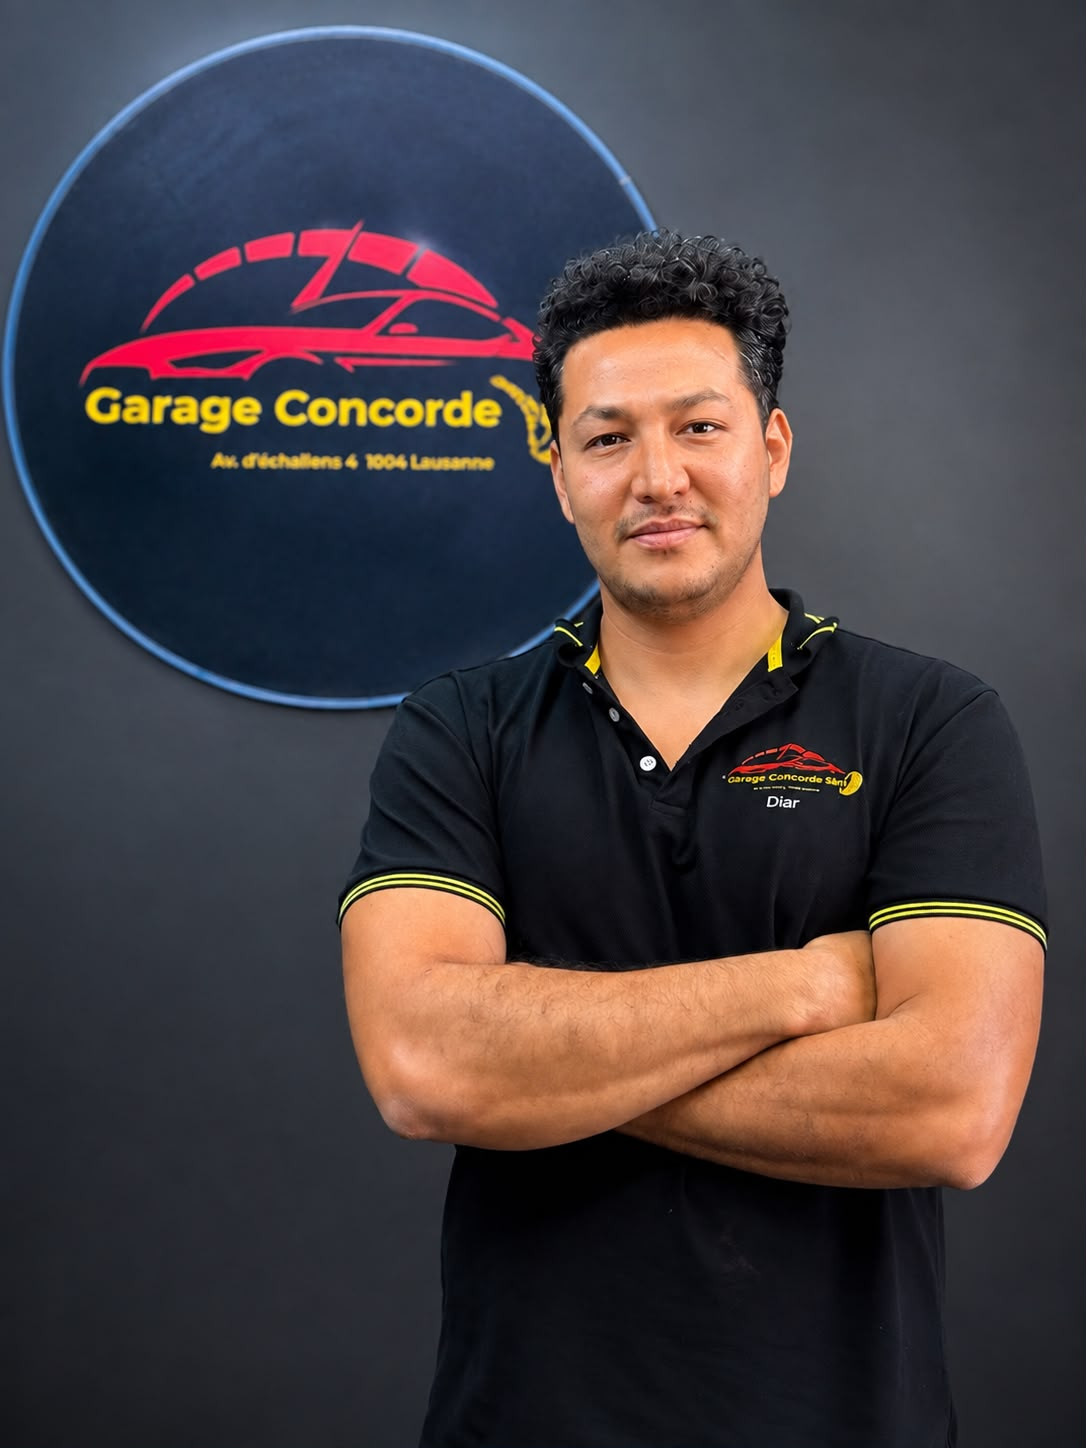
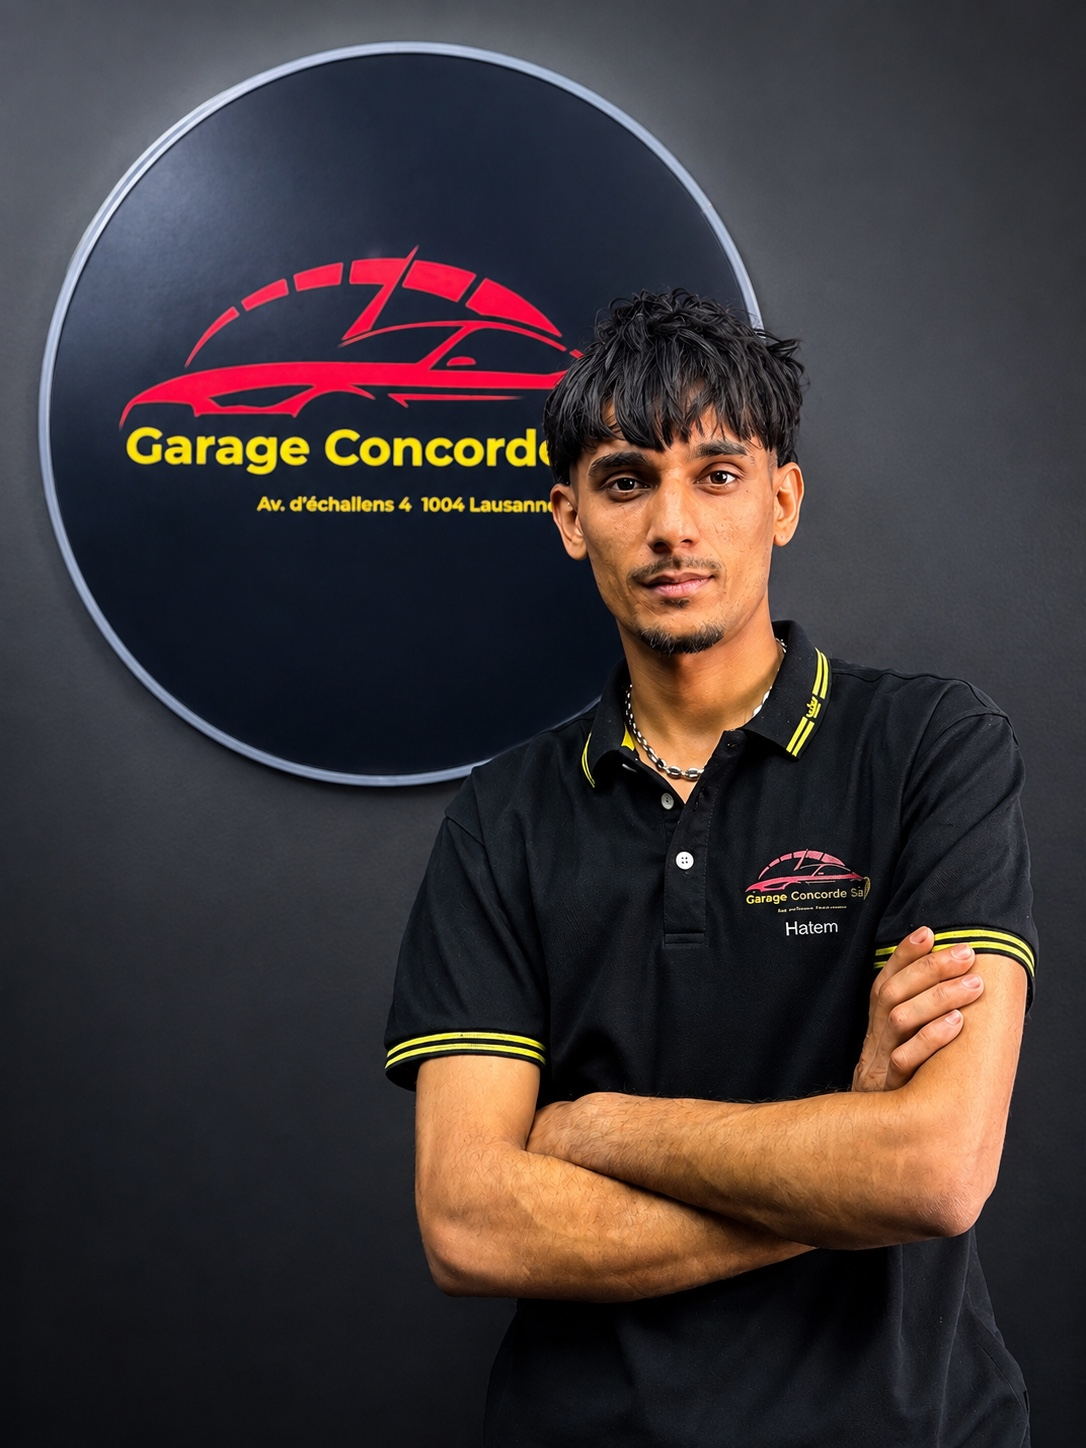
Add files via upload

diff --git a/styles.css b/styles.css
@@ -1,136 +1,21 @@
 
-:root{
-  --red:#e31e24;
-  --yellow:#ffc514;
-  --black:#111214;
-  --white:#ffffff;
-  --soft:#f6f6f7;
-  --text:#17181b;
-  --muted:#64666e;
-  --line:#dddddf;
+*{box-sizing:border-box}html,body{margin:0;font-family:Arial,Helvetica,sans-serif;color:#181818;background:#fff}
+.site-header{height:82px;display:flex;align-items:center;justify-content:space-between;padding:0 max(5vw,22px);background:#111;border-bottom:5px solid #d71936;position:relative;z-index:10}
+.brand{display:flex;align-items:center;gap:10px;text-decoration:none;color:#fff;font-weight:800;font-size:14px}.brand img{width:46px;height:46px;object-fit:contain;border-radius:8px}.brand span{white-space:nowrap}
+nav{display:flex;gap:8px}nav a{color:#fff;text-decoration:none;font-weight:800;padding:12px 15px;border-radius:9px;transition:.2s}nav a:hover,nav a.active{background:#d71936}
+.home{min-height:calc(100vh - 142px);overflow:hidden}.hero{min-height:calc(100vh - 142px);position:relative;display:grid;grid-template-columns:minmax(0,1.4fr) minmax(240px,.6fr);gap:45px;align-items:center;padding:48px max(6vw,25px);background:linear-gradient(125deg,#fff 0%,#fff 60%,#fff8e5 100%)}
+.hero-copy{position:relative;z-index:2;max-width:850px}.kicker{font-size:13px;letter-spacing:2px;color:#a66b00;font-weight:900;margin-bottom:10px}.hero h1{font-size:clamp(42px,6.2vw,88px);line-height:.9;margin:0 0 22px;font-weight:950;letter-spacing:-3px}.hero h1 span{display:block;color:#d71936}.hero p{font-size:clamp(16px,1.4vw,20px);line-height:1.55;max-width:760px}
+.features{display:grid;grid-template-columns:repeat(2,minmax(160px,1fr));gap:10px;margin:25px 0}.features b{padding:13px 15px;background:#fff;border:1px solid #eee;border-radius:10px;box-shadow:0 6px 18px #0000000c}
+.actions{display:flex;gap:12px;flex-wrap:wrap;margin-top:25px}.big{font-size:17px;font-weight:900;padding:17px 22px;border-radius:10px;text-decoration:none;box-shadow:0 8px 22px #0002;transition:.2s}.big:hover{transform:translateY(-2px)}.red{background:#d71936;color:#fff}.dark{background:#171717;color:#fff}.gold{background:#f5c400;color:#171717}
+.promo{position:relative;z-index:2;display:flex;justify-content:center}.promo img{width:min(100%,390px);max-height:390px;object-fit:contain;border-radius:20px;box-shadow:0 18px 45px #0002;background:#fff}
+.decor{position:absolute;inset:0;overflow:hidden;pointer-events:none;opacity:.09}.gear{position:absolute;font-size:130px;animation:spin 22s linear infinite}.gear-a{right:37%;top:7%}.gear-b{left:2%;bottom:0;font-size:90px;animation-direction:reverse}.wheel{position:absolute;width:115px;height:115px;border:15px solid #111;border-radius:50%;box-shadow:inset 0 0 0 5px #d71936;animation:spin 14s linear infinite}.wheel:after{content:"";position:absolute;inset:28px;border:7px dashed #111;border-radius:50%}.wheel-a{right:5%;bottom:4%}.wheel-b{right:30%;bottom:-40px;width:85px;height:85px}.wrench{position:absolute;right:45%;bottom:15%;font-size:75px;animation:sway 5s ease-in-out infinite}
+@keyframes spin{to{transform:rotate(360deg)}}@keyframes sway{0%,100%{transform:rotate(-12deg)}50%{transform:rotate(12deg)}}
+footer{min-height:60px;background:#171717;color:#fff;display:flex;align-items:center;justify-content:space-around;gap:20px;padding:16px 5vw;font-size:13px}
+.page{padding:50px max(6vw,25px);min-height:calc(100vh - 142px)}.page h1{font-size:48px;margin:5px 0}.page h2{margin-top:48px;font-size:28px}.gallery{display:grid;gap:20px}.gallery.workshop{grid-template-columns:repeat(3,1fr)}.gallery.team{grid-template-columns:repeat(4,1fr)}.gallery img{width:100%;height:310px;object-fit:cover;border-radius:18px;box-shadow:0 10px 30px #0002}.gallery.team img{height:380px;object-position:center top}
+@media(max-width:800px){
+ .site-header{height:auto;min-height:76px;padding:10px 14px;align-items:flex-start}.brand span{font-size:11px}.brand img{width:38px;height:38px}nav{gap:2px;flex-wrap:wrap;justify-content:flex-end}nav a{font-size:12px;padding:8px 7px}
+ .hero{grid-template-columns:1fr;gap:24px;padding:34px 20px;min-height:auto}.hero h1{font-size:49px;letter-spacing:-2px}.hero p{font-size:16px}.features{grid-template-columns:1fr 1fr}.features b{font-size:13px;padding:10px}.promo img{max-height:210px}.actions{display:grid;grid-template-columns:1fr}.big{text-align:center;font-size:16px;padding:16px}.decor{opacity:.055}
+ footer{flex-direction:column;text-align:center}.gallery.workshop,.gallery.team{grid-template-columns:1fr 1fr}.gallery img,.gallery.team img{height:270px}
 }
-*{box-sizing:border-box}
-html,body{margin:0;padding:0}
-body{font-family:Arial,Helvetica,sans-serif;background:var(--white);color:var(--text);line-height:1.45}
-a{text-decoration:none;color:inherit}
-img{display:block;max-width:100%}
-.container{width:min(1180px,92%);margin:auto}
-
-.topbar{background:var(--black);color:#fff;font-size:14px}
-.topbar .container{display:flex;justify-content:space-between;gap:20px;flex-wrap:wrap;padding:8px 0}
-header{background:#fff;border-bottom:1px solid var(--line);position:sticky;top:0;z-index:50}
-.nav{display:flex;align-items:center;justify-content:space-between;gap:24px;padding:10px 0}
-.brand{display:flex;align-items:center;gap:12px}
-.brand img{width:92px;height:58px;object-fit:contain;background:#111;border-radius:10px}
-.brand strong{font-size:22px}
-.brand span{display:block;color:var(--red);font-size:13px;font-weight:800}
-.navlinks{display:flex;gap:22px;align-items:center;flex-wrap:wrap}
-.navlinks a{font-size:14px;font-weight:900}
-.navlinks a:hover,.navlinks a.active{color:var(--red)}
-
-.home{
-  position:relative;
-  min-height:calc(100vh - 112px);
-  overflow:hidden;
-  background:
-    radial-gradient(circle at 86% 12%, rgba(255,197,20,.35) 0 11%, transparent 28%),
-    linear-gradient(145deg,#fff 0%,#fff 62%,#fff8db 100%);
-}
-.home:before{
-  content:"";
-  position:absolute;
-  right:-7%;
-  top:20%;
-  width:42%;
-  height:42%;
-  background:linear-gradient(145deg,transparent 0 25%,rgba(255,197,20,.85) 26% 48%,rgba(227,30,36,.85) 49% 62%,transparent 63%);
-  transform:rotate(-6deg);
-  border-radius:40% 0 0 50%;
-  opacity:.8;
-}
-.home-grid{position:relative;z-index:2;display:grid;grid-template-columns:1.2fr .75fr;gap:54px;align-items:center;padding:44px 0 138px}
-.eyebrow{font-size:14px;font-weight:900;text-transform:uppercase;letter-spacing:1.2px;color:#3e4148}
-.eyebrow b{color:var(--red)}
-h1{font-size:clamp(54px,7vw,88px);line-height:.92;margin:14px 0 22px;text-transform:uppercase;letter-spacing:-1.5px}
-h1 span{color:var(--red)}
-h2{font-size:36px;margin:8px 0 18px}
-.lead{font-size:18px;color:#3f4249;max-width:690px}
-.features{display:grid;grid-template-columns:repeat(2,minmax(0,1fr));gap:11px;margin:24px 0}
-.feature{font-weight:900;padding:10px 0}
-.feature:before{content:"✓";color:var(--red);margin-right:10px}
-.actions{display:flex;gap:12px;flex-wrap:wrap;margin-top:22px}
-.btn{display:inline-block;border-radius:8px;padding:13px 18px;font-weight:900;border:1px solid transparent}
-.btn-red{background:var(--red);color:#fff}
-.btn-yellow{background:var(--yellow);color:#111}
-.btn-outline{background:#fff;border-color:#999}
-.ad{position:relative;background:#fff;border:1px solid var(--line);border-radius:18px;padding:10px;box-shadow:0 14px 40px rgba(0,0,0,.1)}
-.ad img{width:100%;height:340px;object-fit:contain;border-radius:13px}
-.ad-label{position:absolute;top:-12px;left:16px;background:var(--black);color:#fff;border-radius:20px;padding:6px 12px;font-size:12px;font-weight:900}
-
-.road{
-  position:absolute;left:0;right:0;bottom:0;height:118px;
-  background:linear-gradient(to bottom,#f9f9fa 0 54%,#101113 55% 100%);
-  z-index:3;border-top:1px solid #ececef
-}
-.road:after{content:"";position:absolute;left:0;right:0;top:72px;height:3px;background:repeating-linear-gradient(90deg,#fff 0 46px,transparent 46px 92px);opacity:.8}
-.car-lane{position:absolute;left:0;right:0;top:8px;height:64px;overflow:hidden}
-.car{position:absolute;width:130px;height:54px;animation:drive 17s linear infinite}
-.car:nth-child(2){animation-duration:21s;animation-delay:-7s}
-.car:nth-child(3){animation-duration:25s;animation-delay:-13s}
-.car:nth-child(4){animation-duration:19s;animation-delay:-4s}
-.car:nth-child(5){animation-duration:23s;animation-delay:-11s}
-@keyframes drive{from{transform:translateX(-180px)}to{transform:translateX(calc(100vw + 180px))}}
-.car .body{position:absolute;left:10px;right:6px;bottom:9px;height:24px;border-radius:15px 20px 8px 8px;background:var(--red);box-shadow:0 4px 12px rgba(0,0,0,.2)}
-.car:nth-child(2) .body,.car:nth-child(5) .body{background:#111}
-.car:nth-child(3) .body{background:var(--yellow)}
-.car:nth-child(4) .body{background:#d9d9dc}
-.car .roof{position:absolute;left:37px;bottom:29px;width:59px;height:22px;border-radius:28px 30px 0 0;background:inherit;clip-path:polygon(15% 100%,30% 10%,72% 10%,95% 100%)}
-.car .wheel{position:absolute;bottom:1px;width:18px;height:18px;border-radius:50%;background:#111;border:4px solid #444}
-.car .w1{left:25px}.car .w2{right:18px}
-
-.section{padding:62px 0}
-.section.soft{background:var(--soft)}
-.section-head{display:flex;justify-content:space-between;align-items:end;gap:30px;margin-bottom:25px}
-.section-head p{max-width:520px;color:var(--muted)}
-.gallery-block{margin-top:26px}
-.gallery-title{margin-bottom:16px}
-.gallery{display:grid;grid-template-columns:repeat(3,1fr);gap:16px}
-.gallery img{width:100%;height:300px;object-fit:cover;border-radius:14px;border:1px solid var(--line);background:#fff}
-.gallery .wide{grid-column:span 3;height:420px}
-.divider{height:1px;background:var(--line);margin:48px 0}
-
-.form{max-width:860px;background:#fff;border:1px solid var(--line);border-radius:16px;padding:26px;box-shadow:0 8px 26px rgba(0,0,0,.05)}
-.form-grid{display:grid;grid-template-columns:1fr 1fr;gap:16px}
-label{font-size:14px;font-weight:900}
-input,textarea{width:100%;margin-top:6px;padding:13px 14px;border:1px solid #c9cbd0;border-radius:9px;background:#fff;font:inherit}
-textarea{min-height:150px;resize:vertical}
-.full{grid-column:1/-1}
-.notice{background:#fff8d9;border:1px solid #ead36f;color:#594909;border-radius:10px;padding:14px;margin:18px 0}
-.rdv{display:grid;grid-template-columns:1.2fr .8fr;gap:20px}
-.box{background:#fff;border:1px solid var(--line);border-radius:16px;padding:28px;box-shadow:0 8px 24px rgba(0,0,0,.04)}
-.small-wa{display:inline-block;border:1px solid #8bc79c;color:#237238;background:#f2fff5;border-radius:8px;padding:9px 12px;font-size:13px}
-
-.footer{background:var(--black);color:#fff;padding:28px 0}
-.footer-grid{display:grid;grid-template-columns:1.5fr 1fr 1fr;gap:26px}
-.footer p{color:#c8c8cd;margin:4px 0}
-.note{font-size:13px;color:#7b7e86}
-
-@media(max-width:900px){
-  .home{min-height:auto}
-  .home-grid,.rdv{grid-template-columns:1fr}
-  .home-grid{padding-bottom:150px}
-  .ad img{height:270px}
-  .gallery{grid-template-columns:1fr 1fr}
-  .gallery .wide{grid-column:span 2}
-}
-@media(max-width:620px){
-  .nav{display:block}
-  .brand{margin-bottom:10px}
-  .navlinks{gap:12px}
-  .home-grid{padding-top:28px}
-  .features,.form-grid,.gallery{grid-template-columns:1fr}
-  .gallery .wide{grid-column:span 1;height:260px}
-  .road{height:102px}
-  .car{width:110px;transform:scale(.9)}
-  h2{font-size:29px}
-}
+@media(max-width:480px){.brand span{display:none}.hero h1{font-size:43px}.gallery.workshop,.gallery.team{grid-template-columns:1fr}.gallery img,.gallery.team img{height:auto}}
+@media(prefers-reduced-motion:reduce){.gear,.wheel,.wrench{animation:none}}

diff --git a/index.html b/index.html
@@ -1,47 +1,27 @@
-<!doctype html><html lang="fr"><head>
-<meta charset="utf-8"><meta name="viewport" content="width=device-width,initial-scale=1">
-<meta name="description" content="Garage Concorde Sàrl à Lausanne, garage toutes marques depuis plus de 20 ans. Entretien, réparation, carrosserie, préparation expertise et devis gratuit.">
-<title>Garage Concorde Sàrl | Lausanne</title><link rel="stylesheet" href="styles.css"></head><body>
-<div class="topbar"><div class="container"><div>📍 Av. d'Échallens 4, 1004 Lausanne</div><div><a href="tel:+41216247335">021 624 73 35</a> · <a href="mailto:info@garage-concorde.ch">info@garage-concorde.ch</a></div></div></div>
-<header><div class="container nav">
-<a class="brand" href="index.html"><img src="logo.jpeg" alt="Logo Garage Concorde"><div><strong>Garage Concorde Sàrl</strong><span>Lausanne</span></div></a>
-<nav class="navlinks"><a href="index.html">Accueil</a><a href="devis.html">Devis</a><a href="rendez-vous.html">Rendez-vous</a><a href="atelier.html">Atelier</a></nav>
-</div></header>
-
-<main>
-<section class="home"><div class="container home-grid">
-<div>
-<div class="eyebrow">Depuis plus de <b>20 ans</b> à Lausanne</div>
-<h1>Garage <span>Concorde</span></h1>
-<p class="lead">Garage toutes marques à Lausanne. Entretien, réparations mécaniques, carrosserie et préparation expertise, avec devis gratuit.</p>
-<div class="features">
-<div class="feature">Toutes marques</div>
-<div class="feature">Entretien</div>
-<div class="feature">Réparation</div>
-<div class="feature">Carrosserie</div>
-<div class="feature">Préparation expertise</div>
-<div class="feature">Devis gratuit</div>
-</div>
-<div class="actions">
-<a class="btn btn-red" href="devis.html">Demander un devis</a>
-<a class="btn btn-yellow" href="rendez-vous.html">Prendre rendez-vous</a>
-<a class="btn btn-outline" href="atelier.html">Voir l'atelier</a>
-</div>
-</div>
-<div><div class="ad"><span class="ad-label">PUBLICITÉ</span><img src="promo_pneus.jpeg" alt="Promotion pneus hiver"></div></div>
-</div>
-<div class="road"><div class="car-lane">
-<div class="car"><div class="body"></div><div class="roof"></div><div class="wheel w1"></div><div class="wheel w2"></div></div>
-<div class="car"><div class="body"></div><div class="roof"></div><div class="wheel w1"></div><div class="wheel w2"></div></div>
-<div class="car"><div class="body"></div><div class="roof"></div><div class="wheel w1"></div><div class="wheel w2"></div></div>
-<div class="car"><div class="body"></div><div class="roof"></div><div class="wheel w1"></div><div class="wheel w2"></div></div>
-<div class="car"><div class="body"></div><div class="roof"></div><div class="wheel w1"></div><div class="wheel w2"></div></div>
-</div></div>
-</section>
+<!doctype html>
+<html lang="fr"><head><meta charset="utf-8"><meta name="viewport" content="width=device-width,initial-scale=1">
+<title>Garage Concorde Sàrl | Lausanne</title><link rel="stylesheet" href="styles.css"></head>
+<body>
+<header class="site-header">
+  <a class="brand" href="index.html"><img src="logo.jpeg" alt="Garage Concorde"><span>Garage Concorde Sàrl</span></a>
+  <nav><a class="active" href="index.html">Accueil</a><a href="devis.html">Devis</a><a href="rendez-vous.html">Rendez-vous</a><a href="atelier.html">Atelier</a></nav>
+</header>
+<main class="home">
+  <section class="hero">
+    <div class="decor" aria-hidden="true">
+      <div class="gear gear-a">⚙</div><div class="gear gear-b">⚙</div>
+      <div class="wheel wheel-a"></div><div class="wheel wheel-b"></div>
+      <div class="wrench">🔧</div>
+    </div>
+    <div class="hero-copy">
+      <div class="kicker">DEPUIS PLUS DE 20 ANS À LAUSANNE</div>
+      <h1>GARAGE <span>CONCORDE</span></h1>
+      <p>Garage toutes marques à Lausanne. Entretien, réparation mécanique, carrosserie et préparation expertise, avec devis gratuit.</p>
+      <div class="features"><b>✓ Toutes marques</b><b>✓ Entretien</b><b>✓ Réparation</b><b>✓ Carrosserie</b><b>✓ Expertise</b><b>✓ Devis gratuit</b></div>
+      <div class="actions"><a class="big red" href="devis.html">Demander un devis</a><a class="big dark" href="rendez-vous.html">Prendre rendez-vous</a><a class="big gold" href="atelier.html">Voir l’atelier</a></div>
+    </div>
+    <aside class="promo"><img src="promo_pneus.jpeg" alt="Offre pneus"></aside>
+  </section>
 </main>
-
-<footer class="footer"><div class="container"><div class="footer-grid">
-<div><h3>Garage Concorde Sàrl</h3><p>Garage toutes marques à Lausanne depuis plus de 20 ans.</p></div>
-<div><h3>Contact</h3><p>021 624 73 35</p><p>info@garage-concorde.ch</p></div>
-<div><h3>Adresse</h3><p>Av. d'Échallens 4</p><p>1004 Lausanne</p></div>
-</div></div></footer></body></html>
+<footer><b>Garage Concorde Sàrl</b><span>Av. d’Échallens 4, 1004 Lausanne</span><span>021 624 73 35 · info@garage-concorde.ch</span></footer>
+</body></html>

diff --git a/atelier.html b/atelier.html
@@ -1,42 +1,12 @@
-<!doctype html><html lang="fr"><head>
-<meta charset="utf-8"><meta name="viewport" content="width=device-width,initial-scale=1">
-<meta name="description" content="Garage Concorde Sàrl à Lausanne, garage toutes marques depuis plus de 20 ans. Entretien, réparation, carrosserie, préparation expertise et devis gratuit.">
-<title>Atelier | Garage Concorde Sàrl</title><link rel="stylesheet" href="styles.css"></head><body>
-<div class="topbar"><div class="container"><div>📍 Av. d'Échallens 4, 1004 Lausanne</div><div><a href="tel:+41216247335">021 624 73 35</a> · <a href="mailto:info@garage-concorde.ch">info@garage-concorde.ch</a></div></div></div>
-<header><div class="container nav">
-<a class="brand" href="index.html"><img src="logo.jpeg" alt="Logo Garage Concorde"><div><strong>Garage Concorde Sàrl</strong><span>Lausanne</span></div></a>
-<nav class="navlinks"><a href="index.html">Accueil</a><a href="devis.html">Devis</a><a href="rendez-vous.html">Rendez-vous</a><a href="atelier.html">Atelier</a></nav>
-</div></header>
-
-<main><section class="section"><div class="container">
-<div class="eyebrow">Notre garage</div><h1 style="font-size:56px">Atelier & <span>équipe</span></h1>
-<p class="lead">Les photos de l'atelier et les photos de l'équipe sont séparées pour une présentation plus claire.</p>
-
-<div class="gallery-block">
-<div class="gallery-title"><div class="eyebrow">Photos atelier</div><h2>Notre atelier</h2></div>
-<div class="gallery">
-<img class="wide" src="atelier_exterieur.jpeg" alt="Extérieur Garage Concorde">
-<img src="reception.jpeg" alt="Réception Garage Concorde">
-<img src="atelier_interieur.jpeg" alt="Atelier Garage Concorde">
-</div>
-</div>
-
-<div class="divider"></div>
-
-<div class="gallery-block">
-<div class="gallery-title"><div class="eyebrow">Photos équipe</div><h2>Notre équipe</h2></div>
-<div class="gallery">
-<img src="equipe1.jpeg" alt="Équipe Garage Concorde">
-<img src="equipe2.jpeg" alt="Équipe Garage Concorde">
-<img src="equipe3.jpeg" alt="Équipe Garage Concorde">
-<img src="equipe4.jpeg" alt="Équipe Garage Concorde">
-<img src="equipe5.jpeg" alt="Équipe Garage Concorde">
-</div>
-</div>
-</div></section></main>
-
-<footer class="footer"><div class="container"><div class="footer-grid">
-<div><h3>Garage Concorde Sàrl</h3><p>Garage toutes marques à Lausanne depuis plus de 20 ans.</p></div>
-<div><h3>Contact</h3><p>021 624 73 35</p><p>info@garage-concorde.ch</p></div>
-<div><h3>Adresse</h3><p>Av. d'Échallens 4</p><p>1004 Lausanne</p></div>
-</div></div></footer></body></html>
+<!doctype html>
+<html lang="fr"><head><meta charset="utf-8"><meta name="viewport" content="width=device-width,initial-scale=1">
+<title>Atelier | Garage Concorde</title><link rel="stylesheet" href="styles.css"></head><body>
+<header class="site-header"><a class="brand" href="index.html"><img src="logo.jpeg"><span>Garage Concorde Sàrl</span></a>
+<nav><a href="index.html">Accueil</a><a href="devis.html">Devis</a><a href="rendez-vous.html">Rendez-vous</a><a class="active" href="atelier.html">Atelier</a></nav></header>
+<main class="page">
+<section><div class="kicker">GARAGE CONCORDE</div><h1>Notre atelier</h1><p>Découvrez notre atelier à Lausanne et notre équipe.</p>
+<h2>Photos de l’atelier</h2><div class="gallery workshop">
+<img src="atelier_exterieur.jpeg"><img src="reception.jpeg"><img src="atelier_interieur.jpeg"></div>
+<h2>Notre équipe</h2><div class="gallery team">
+<img src="equipe1.jpeg"><img src="equipe2.jpeg"><img src="equipe3.jpeg"><img src="equipe4.jpeg"><img src="equipe5.jpeg"><img src="equipe6.jpeg"><img src="equipe7.jpeg"></div>
+</section></main><footer><b>Garage Concorde Sàrl</b><span>021 624 73 35 · info@garage-concorde.ch</span></footer></body></html>
